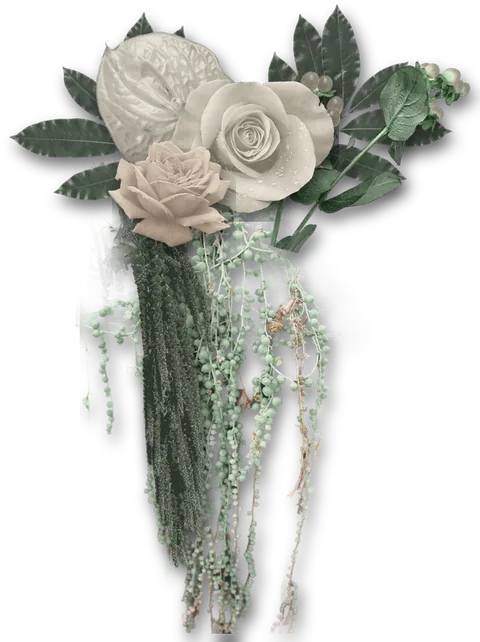
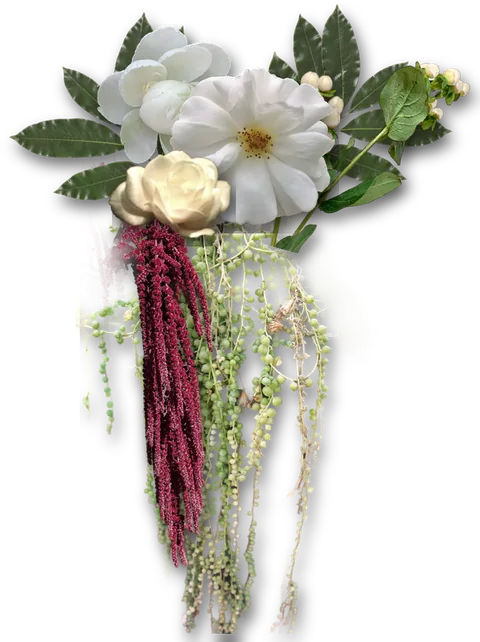
Beludru: ganti bunga dengan foto bunga putih asli yang segar

Changed region(s): [[0.0625, 0.0312, 1.0, 0.9657], [0.2188, 0.5919, 0.25, 0.6542]]

diff --git a/beludru.html b/beludru.html
@@ -561,7 +561,7 @@ main>section+section:not(.velvet+.velvet):not(.suede+.suede)>.seam{display:block
 </main>
 <footer>JOSUA &amp; LARASATI · 12.06.2027
   <details class="credit"><summary>Kredit foto</summary>
-    <p>Rangkaian bunga disusun dari foto Wikimedia Commons; hasil susunannya berlisensi <a href="https://creativecommons.org/licenses/by-sa/4.0/" target="_blank" rel="noopener">CC BY-SA 4.0</a>. Foto oleh: Leonora Enking (CC BY-SA 2.0), Balise42 (CC BY-SA 4.0), Tubifex (CC BY-SA 3.0), Yercaud-elango (CC BY-SA 4.0), Nino Barbieri (CC BY-SA 2.5), Nesnad (CC BY 4.0), Kurt Stüber (CC BY-SA 3.0), Bff (CC BY-SA 3.0), Denis Barthel &amp; Aftonlilja (CC BY-SA 3.0), Rabe! &amp; Fmi2012 (CC BY-SA 3.0), B.navez (CC BY-SA 3.0), Lubna (CC BY-SA 3.0), Amada44 (CC BY 3.0). Rincian: <a href="aset/bunga/KREDIT.md" target="_blank" rel="noopener">KREDIT.md</a>.</p>
+    <p>Rangkaian bunga disusun dari foto Wikimedia Commons; hasil susunannya berlisensi <a href="https://creativecommons.org/licenses/by-sa/4.0/" target="_blank" rel="noopener">CC BY-SA 4.0</a>. Foto oleh: Leonora Enking (CC BY-SA 2.0), Balise42 (CC BY-SA 4.0), Tubifex (CC BY-SA 3.0), Nesnad (CC BY 4.0), Bff (CC BY-SA 3.0), Rabe! &amp; Fmi2012 (CC BY-SA 3.0), B.navez (CC BY-SA 3.0), Amada44 (CC BY 3.0), Filo gèn' (CC BY-SA 4.0), SzinNapalm (CC BY 4.0), Downtowngal (CC BY-SA 4.0), ChickenFreak &amp; Dusan Bicanski (domain publik). Rincian: <a href="aset/bunga/KREDIT.md" target="_blank" rel="noopener">KREDIT.md</a>.</p>
     <p>Foto galeri &amp; kain: Drew Coffman, Petr Ovralov, Paul García, Anne Edgar, Wu Jianxiong (Unsplash, CC0); Astari28 (CC BY 4.0); Rijksmuseum &amp; Honolulu Museum of Art (CC0). Rincian: <a href="aset/foto/KREDIT.md" target="_blank" rel="noopener">KREDIT.md</a>.</p>
   </details>
 </footer>

diff --git a/aset/bunga/KREDIT.md b/aset/bunga/KREDIT.md
@@ -7,15 +7,15 @@ Gambar `bunga-besar.webp`, `bunga-kecil.webp`, `bunga-juntai.webp`, dan `bunga-l
 | [String of Beads (Senecio rowleyanus)](https://commons.wikimedia.org/wiki/File:String_of_Beads_(Senecio_rowleyanus)_(3424158397).jpg) | Leonora Enking | CC BY-SA 2.0 |
 | [Foxtail amaranth falling from a picket fence](https://commons.wikimedia.org/wiki/File:Foxtail_amaranth_falling_from_a_picket_fence.jpg) | Balise42 | CC BY-SA 4.0 |
 | [Amaranthus caudatus (Zieramaranth)](https://commons.wikimedia.org/wiki/File:3836_-_Amaranthus_caudatus_(Zieramaranth).JPG) | Tubifex | CC BY-SA 3.0 |
-| [Anthurium andraeanum](https://commons.wikimedia.org/wiki/File:Anthurium_andraeanum_speech-yercaud-salem-India.JPG) | Yercaud-elango | CC BY-SA 4.0 |
-| [Orange rose extracted](https://commons.wikimedia.org/wiki/File:Orange_rose_extracted.jpg) | Nino Barbieri | CC BY-SA 2.5 |
 | [Hypericum berries](https://commons.wikimedia.org/wiki/File:Hypericum_berries_-_red_-_March_3_2021.jpeg) | Nesnad | CC BY 4.0 |
-| [Extracted pink rose](https://commons.wikimedia.org/wiki/File:Extracted_pink_rose.png) | Kurt Stüber | CC BY-SA 3.0 |
 | [Rose20090913 36](https://commons.wikimedia.org/wiki/File:Rose20090913_36.png) | Bff | CC BY-SA 3.0 |
-| [Lilium bulbiferum croceum](https://commons.wikimedia.org/wiki/File:LiliumBulbiferumCroceumBologna.png) | Denis Barthel, Aftonlilja | CC BY-SA 3.0 |
 | [Pear leaf](https://commons.wikimedia.org/wiki/File:Pear_LeafTransparent.png) | Rabe!, Fmi2012 | CC BY-SA 3.0 |
 | [Litchi chinensis leaf](https://commons.wikimedia.org/wiki/File:Litchi_chinensis_leaf.png) | B.navez | CC BY-SA 3.0 |
-| [Daisy](https://commons.wikimedia.org/wiki/File:Daisy.png) | Lubna | CC BY-SA 3.0 |
 | [Zantedeschia aethiopica](https://commons.wikimedia.org/wiki/File:Zantedeschia_aethiopica_002.png) | Amada44 | CC BY 3.0 |
+| [Blanche Rose on black background](https://commons.wikimedia.org/wiki/File:Blanche_Rose_on_black_background.jpg) | Filo gèn' | CC BY-SA 4.0 |
+| [Rose in the dark](https://commons.wikimedia.org/wiki/File:Rose_in_the_dark.jpg) | SzinNapalm | CC BY 4.0 |
+| [White Peony Blossom](https://commons.wikimedia.org/wiki/File:White_Peony_Blossom.jpg) | ChickenFreak | Domain publik |
+| [White peony flower](https://commons.wikimedia.org/wiki/File:White_peony_flower.jpg) | Dusan Bicanski | Domain publik |
+| [White Lisianthus flower](https://commons.wikimedia.org/wiki/File:White_Lisianthus_flower.jpg) | Downtowngal | CC BY-SA 4.0 |
 
-Perubahan: latar foto dihapus, warna bunga & daun diubah ke palet putih gading (gading, krem, sampanye, sage), lalu disusun menjadi rangkaian.
+Perubahan: latar foto dihapus, kecerahan mawar krem dinaikkan, bayam ekor kucing digeser ke burgundi, buah hypericum dibuat krem, lalu semuanya disusun menjadi rangkaian.
